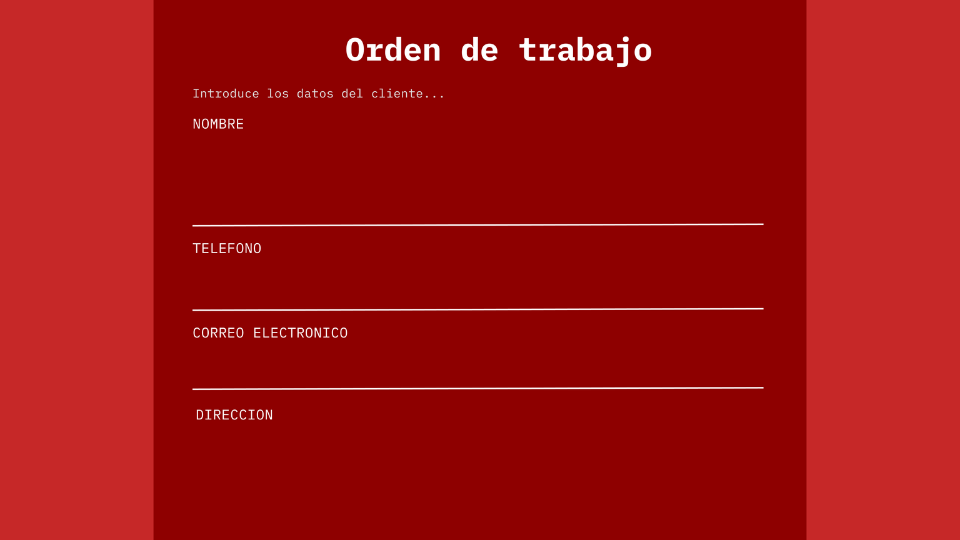
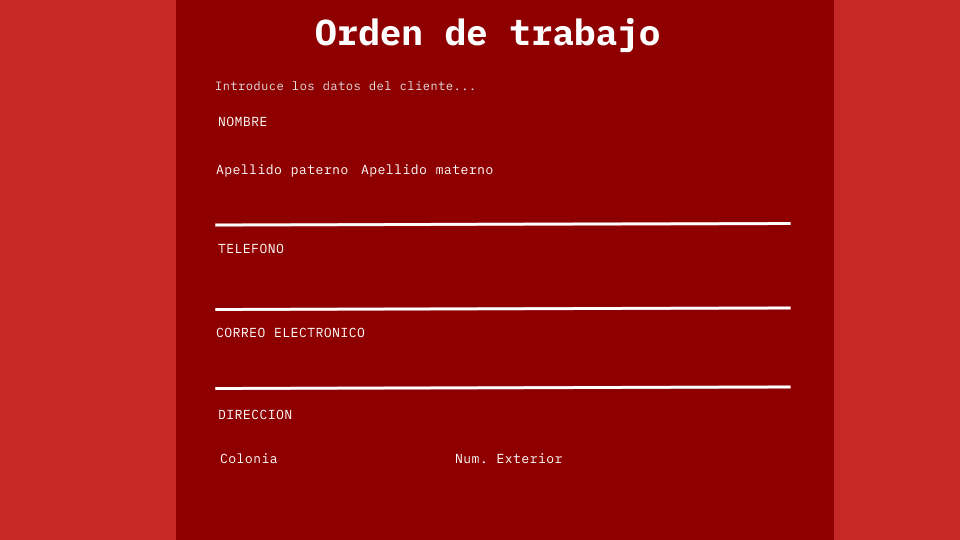
lbls para datos clientes

diff --git a/presentacion_taller/src/main/java/presentacion/PantallaDatosCliente.java b/presentacion_taller/src/main/java/presentacion/PantallaDatosCliente.java
@@ -72,7 +72,7 @@ public class PantallaDatosCliente extends javax.swing.JFrame {
                 txtTelefonoActionPerformed(evt);
             }
         });
-        getContentPane().add(txtTelefono, new org.netbeans.lib.awtextra.AbsoluteConstraints(190, 270, 260, -1));
+        getContentPane().add(txtTelefono, new org.netbeans.lib.awtextra.AbsoluteConstraints(220, 260, 260, -1));
 
         txtDireccion.setForeground(new java.awt.Color(51, 51, 51));
         txtDireccion.addMouseListener(new java.awt.event.MouseAdapter() {
@@ -85,7 +85,7 @@ public class PantallaDatosCliente extends javax.swing.JFrame {
                 txtDireccionActionPerformed(evt);
             }
         });
-        getContentPane().add(txtDireccion, new org.netbeans.lib.awtextra.AbsoluteConstraints(190, 440, 260, -1));
+        getContentPane().add(txtDireccion, new org.netbeans.lib.awtextra.AbsoluteConstraints(220, 430, 230, -1));
 
         txtCorreoElectronico.setForeground(new java.awt.Color(51, 51, 51));
         txtCorreoElectronico.addMouseListener(new java.awt.event.MouseAdapter() {
@@ -98,7 +98,7 @@ public class PantallaDatosCliente extends javax.swing.JFrame {
                 txtCorreoElectronicoActionPerformed(evt);
             }
         });
-        getContentPane().add(txtCorreoElectronico, new org.netbeans.lib.awtextra.AbsoluteConstraints(190, 350, 260, -1));
+        getContentPane().add(txtCorreoElectronico, new org.netbeans.lib.awtextra.AbsoluteConstraints(220, 340, 260, -1));
 
         txtColonia.setForeground(new java.awt.Color(51, 51, 51));
         txtColonia.addMouseListener(new java.awt.event.MouseAdapter() {
@@ -111,7 +111,7 @@ public class PantallaDatosCliente extends javax.swing.JFrame {
                 txtColoniaActionPerformed(evt);
             }
         });
-        getContentPane().add(txtColonia, new org.netbeans.lib.awtextra.AbsoluteConstraints(190, 480, 260, -1));
+        getContentPane().add(txtColonia, new org.netbeans.lib.awtextra.AbsoluteConstraints(220, 470, 230, -1));
 
         txtNumExterior.setForeground(new java.awt.Color(51, 51, 51));
         txtNumExterior.addMouseListener(new java.awt.event.MouseAdapter() {
@@ -119,7 +119,12 @@ public class PantallaDatosCliente extends javax.swing.JFrame {
                 txtNumExteriorMouseClicked(evt);
             }
         });
-        getContentPane().add(txtNumExterior, new org.netbeans.lib.awtextra.AbsoluteConstraints(490, 480, 110, -1));
+        txtNumExterior.addActionListener(new java.awt.event.ActionListener() {
+            public void actionPerformed(java.awt.event.ActionEvent evt) {
+                txtNumExteriorActionPerformed(evt);
+            }
+        });
+        getContentPane().add(txtNumExterior, new org.netbeans.lib.awtextra.AbsoluteConstraints(460, 470, 110, -1));
 
         txtNombre.setForeground(new java.awt.Color(51, 51, 51));
         txtNombre.addMouseListener(new java.awt.event.MouseAdapter() {
@@ -132,7 +137,7 @@ public class PantallaDatosCliente extends javax.swing.JFrame {
                 txtNombreActionPerformed(evt);
             }
         });
-        getContentPane().add(txtNombre, new org.netbeans.lib.awtextra.AbsoluteConstraints(190, 140, 270, -1));
+        getContentPane().add(txtNombre, new org.netbeans.lib.awtextra.AbsoluteConstraints(220, 140, 270, -1));
 
         txtApellidoPaterno.setForeground(new java.awt.Color(51, 51, 51));
         txtApellidoPaterno.addMouseListener(new java.awt.event.MouseAdapter() {
@@ -145,7 +150,7 @@ public class PantallaDatosCliente extends javax.swing.JFrame {
                 txtApellidoPaternoActionPerformed(evt);
             }
         });
-        getContentPane().add(txtApellidoPaterno, new org.netbeans.lib.awtextra.AbsoluteConstraints(190, 190, 130, -1));
+        getContentPane().add(txtApellidoPaterno, new org.netbeans.lib.awtextra.AbsoluteConstraints(220, 180, 130, -1));
 
         txtApellidoMaterno.setForeground(new java.awt.Color(51, 51, 51));
         txtApellidoMaterno.addMouseListener(new java.awt.event.MouseAdapter() {
@@ -158,7 +163,7 @@ public class PantallaDatosCliente extends javax.swing.JFrame {
                 txtApellidoMaternoActionPerformed(evt);
             }
         });
-        getContentPane().add(txtApellidoMaterno, new org.netbeans.lib.awtextra.AbsoluteConstraints(330, 190, 130, -1));
+        getContentPane().add(txtApellidoMaterno, new org.netbeans.lib.awtextra.AbsoluteConstraints(360, 180, 130, -1));
 
         btnAtras.setIcon(new javax.swing.ImageIcon(getClass().getResource("/imagenes/botonRegresar.png"))); // NOI18N
         btnAtras.setContentAreaFilled(false);
@@ -309,6 +314,10 @@ public class PantallaDatosCliente extends javax.swing.JFrame {
             txtNumExterior.setText("");
         }
     }//GEN-LAST:event_txtNumExteriorMouseClicked
+
+    private void txtNumExteriorActionPerformed(java.awt.event.ActionEvent evt) {//GEN-FIRST:event_txtNumExteriorActionPerformed
+        // TODO add your handling code here:
+    }//GEN-LAST:event_txtNumExteriorActionPerformed
 
 
     // Variables declaration - do not modify//GEN-BEGIN:variables
